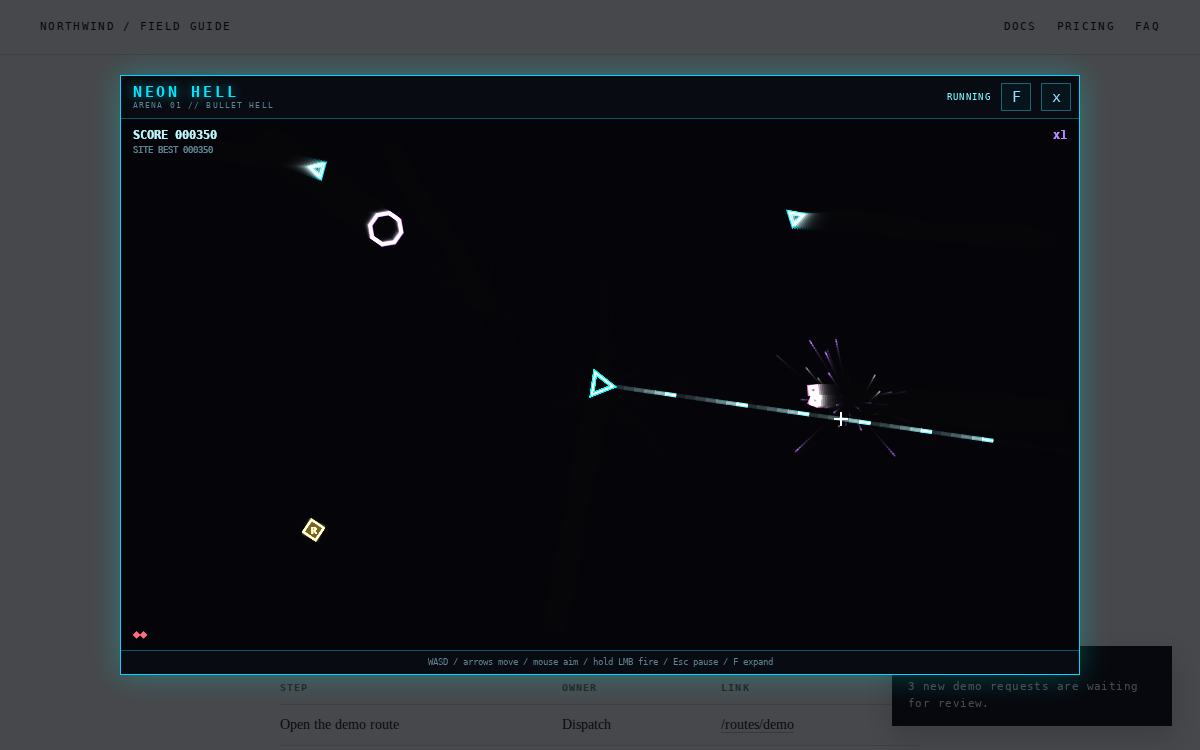
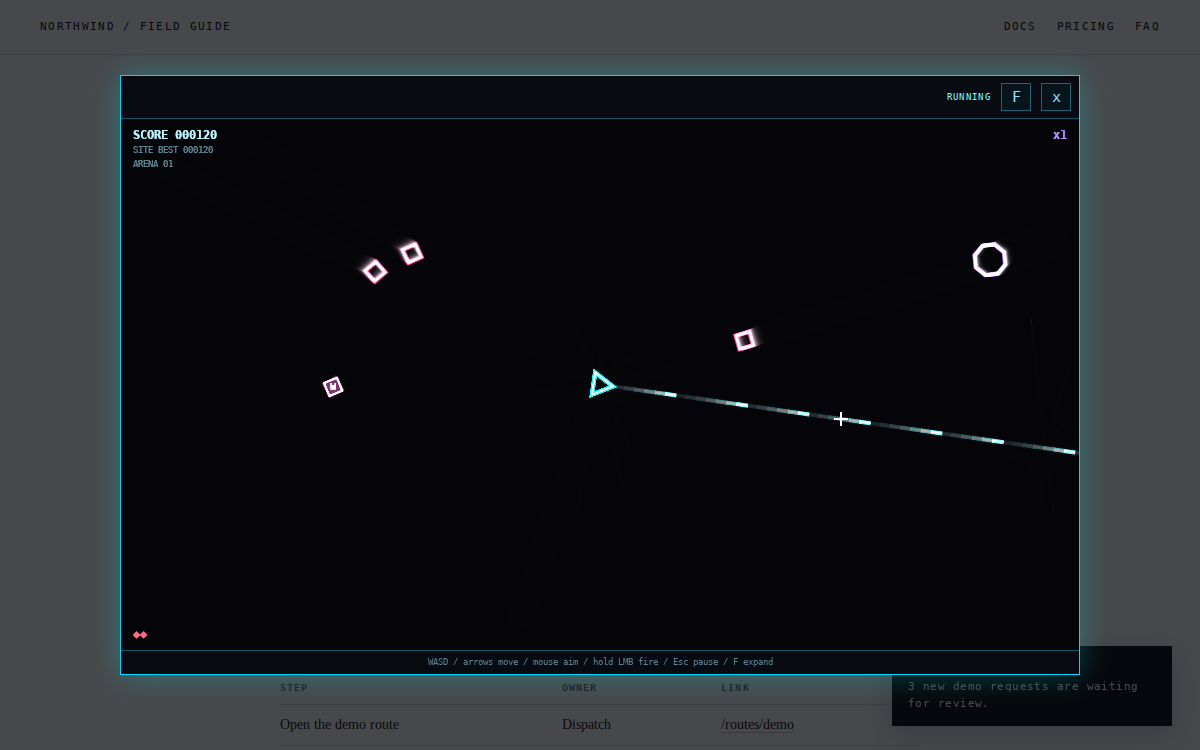
Drop the redundant Neon Hell title block
The game is already obvious from the window and the card; leaving only status and controls cuts the top-left copy and moves the arena label into the score block where it belongs.

🤖 Generated with Codebuff

diff --git a/bookmarklets/games/neon-hell.js b/bookmarklets/games/neon-hell.js
@@ -20,7 +20,7 @@
   host.id = "nh-root";
   host.style.cssText = "position:fixed;inset:0;z-index:2147483647;pointer-events:none";
   const root = host.attachShadow({ mode: "open" });
-  root.innerHTML = `<style>:host{all:initial;display:block}*{box-sizing:border-box}.overlay{position:fixed;inset:0;display:grid;place-items:center;padding:16px;background:#020308b8;pointer-events:auto;font:12px monospace;color:#e8f7ff}.overlay.full{padding:0;background:#000}.overlay.paused{pointer-events:none;background:#02030859}.overlay.paused .modal{pointer-events:auto}.modal{display:flex;flex-direction:column;width:min(960px,90vw);height:min(600px,85vh);min-width:280px;min-height:240px;border:1px solid #00d9ff;background:#05050a;box-shadow:0 0 30px #0ff4;overflow:hidden;pointer-events:auto}.overlay.full .modal{width:100vw;height:100vh;border:0;box-shadow:none}header{flex:none;display:flex;align-items:center;gap:10px;padding:7px 8px 7px 12px;background:#080b12;border-bottom:1px solid #0d5666}.brand{display:flex;flex-direction:column;gap:1px;min-width:0}.brand b{font:600 15px/1.1 monospace;letter-spacing:.18em;color:#00e5ff;text-shadow:0 0 12px #0ff9}.brand span{font-size:8px;letter-spacing:.14em;text-transform:uppercase;color:#5d8290;white-space:nowrap}.status{margin-left:auto;font-size:9px;letter-spacing:.15em;color:#7ff;white-space:nowrap}button{width:30px;height:28px;flex:none;border:1px solid #1a6675;background:#06151c;color:#9df;font:15px monospace;cursor:pointer}button:hover{border-color:#00e5ff;color:#fff}button:focus-visible{outline:1px solid #fff;outline-offset:2px}.stage{position:relative;flex:1;min-height:0;background:#05050a}canvas{position:absolute;inset:0;display:block;width:100%;height:100%;cursor:crosshair;touch-action:none;outline:none;background:#05050a}footer{flex:none;padding:5px 8px;border-top:1px solid #0d5666;background:#080b12;color:#5d8290;font-size:9px;line-height:1.4;text-align:center;white-space:nowrap;overflow:hidden;text-overflow:ellipsis}@media(max-width:560px){.overlay{padding:8px}.modal{width:94vw;height:88vh}.brand span{display:none}footer{font-size:8px}}</style><div class=overlay><section class=modal role=dialog aria-modal=true aria-label='Neon Hell'><header><span class=brand><b>NEON HELL</b><span>ARENA 01 // BULLET HELL</span></span><span class=status id=state>RUNNING</span><button id=full type=button aria-label='Expand to full screen'>F</button><button id=close type=button aria-label='Close Neon Hell'>x</button></header><div class=stage><canvas tabindex=0 aria-label='Neon Hell game canvas'></canvas></div><footer>WASD / arrows move / mouse aim / hold LMB fire / Esc pause / F expand</footer></section></div>`;
+  root.innerHTML = `<style>:host{all:initial;display:block}*{box-sizing:border-box}.overlay{position:fixed;inset:0;display:grid;place-items:center;padding:16px;background:#020308b8;pointer-events:auto;font:12px monospace;color:#e8f7ff}.overlay.full{padding:0;background:#000}.overlay.paused{pointer-events:none;background:#02030859}.overlay.paused .modal{pointer-events:auto}.modal{display:flex;flex-direction:column;width:min(960px,90vw);height:min(600px,85vh);min-width:280px;min-height:240px;border:1px solid #00d9ff;background:#05050a;box-shadow:0 0 30px #0ff4;overflow:hidden;pointer-events:auto}.overlay.full .modal{width:100vw;height:100vh;border:0;box-shadow:none}header{flex:none;display:flex;align-items:center;gap:10px;padding:7px 8px 7px 12px;background:#080b12;border-bottom:1px solid #0d5666}.status{margin-left:auto;font-size:9px;letter-spacing:.15em;color:#7ff;white-space:nowrap}button{width:30px;height:28px;flex:none;border:1px solid #1a6675;background:#06151c;color:#9df;font:15px monospace;cursor:pointer}button:hover{border-color:#00e5ff;color:#fff}button:focus-visible{outline:1px solid #fff;outline-offset:2px}.stage{position:relative;flex:1;min-height:0;background:#05050a}canvas{position:absolute;inset:0;display:block;width:100%;height:100%;cursor:crosshair;touch-action:none;outline:none;background:#05050a}footer{flex:none;padding:5px 8px;border-top:1px solid #0d5666;background:#080b12;color:#5d8290;font-size:9px;line-height:1.4;text-align:center;white-space:nowrap;overflow:hidden;text-overflow:ellipsis}@media(max-width:560px){.overlay{padding:8px}.modal{width:94vw;height:88vh}footer{font-size:8px}}</style><div class=overlay><section class=modal role=dialog aria-modal=true aria-label='Neon Hell'><header><span class=status id=state>RUNNING</span><button id=full type=button aria-label='Expand to full screen'>F</button><button id=close type=button aria-label='Close Neon Hell'>x</button></header><div class=stage><canvas tabindex=0 aria-label='Neon Hell game canvas'></canvas></div><footer>WASD / arrows move / mouse aim / hold LMB fire / Esc pause / F expand</footer></section></div>`;
 
   const overlay = root.querySelector(".overlay");
   const canvas = root.querySelector("canvas");
@@ -362,7 +362,10 @@
     ctx.fillStyle = "#5d8290";
     ctx.font = "9px monospace";
     ctx.fillText("SITE BEST " + fmt(best), 12, 34);
-    let effectLine = 48;
+    ctx.fillStyle = "#5d8290";
+    ctx.font = "9px monospace";
+    ctx.fillText("ARENA 01", 12, 48);
+    let effectLine = 62;
     for (const power of POWERS) {
       const left = effects[power.id];
       if (!left) continue;
